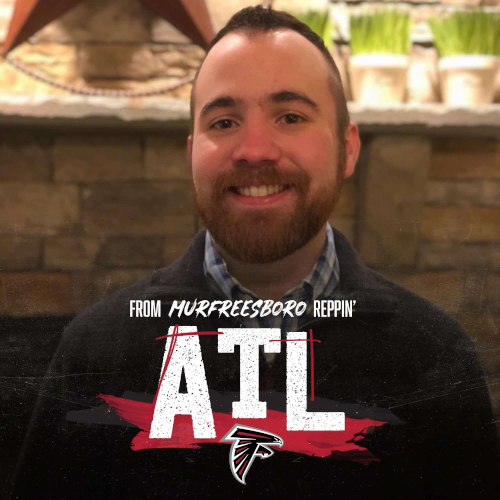
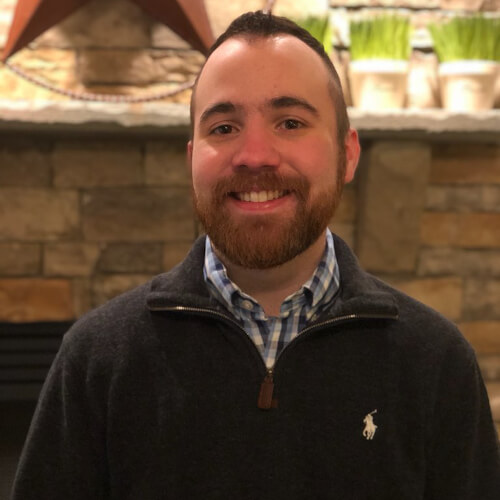
updating profile pic, background pic

diff --git a/index.html b/index.html
@@ -72,7 +72,6 @@
                                 <li><a href="#about" class="pt-link"><span class="nav-menu-icon"><i class="lnr lnr-user"></i></span>About Me</a></li>
                                 <li><a href="#resume" class="pt-link"><span class="nav-menu-icon"><i class="lnr lnr-license"></i></span>Resume</a></li>
                                 <li><a href="#portfolio" class="pt-link"><span class="nav-menu-icon"><i class="lnr lnr-briefcase"></i></span>Portfolio</a></li>
-                                <li><a href="#blog" class="pt-link"><span class="nav-menu-icon"><i class="lnr lnr-book"></i></span>Blog</a></li>
                                 <li><a href="#contact" class="pt-link"><span class="nav-menu-icon"><i class="lnr lnr-envelope"></i></span>Contact</a></li>
                             </ul>
                         </nav>
@@ -81,11 +80,8 @@
                         <div class="nav-footer">
                             <!--Social Links-->
                             <ul class="social">
-                                <li><a href="#"><i class="fab fa-facebook-square"></i></a></li>
-                                <li><a href="#"><i class="fab fa-twitter-square"></i></a></li>
-                                <li><a href="#"><i class="fab fa-youtube-square"></i></a></li>
-                                <li><a href="#"><i class="fab fa-dribbble-square"></i></a></li>
-                                <li><a href="#"><i class="fab fa-behance-square"></i></a></li>
+                                <li><a href="https://github.com/austindickey/"><i class="fab fa-github-square"></i></a></li>
+                                <li><a href="https://www.linkedin.com/in/austindickey/"><i class="fab fa-linkedin"></i></a></li>
                             </ul>
                         </div>
 
@@ -109,10 +105,10 @@
                         <p class="cd-headline clip is-full-width">
                         <span>I am a </span>
                         <span class="cd-words-wrapper">
-                            <b class="is-visible">Graphics Designer</b>
+                            <b class="is-visible">Full Stack Developer</b>
                             <b>Freelancer</b>
-                            <b>Web Developer</b>
-                            <b>UI/UX Designer</b>
+                            <b>Web Designer</b>
+                            <b>Problem Solver</b>
                         </span>
                         </p>
 
@@ -743,142 +739,6 @@
                     </div>
                 </section>
                 <!--Porfolio Section End-->
-
-
-                <!--Blog Section Start-->
-                <section id="blog" class="blog-section pt-page">
-                    <div class="section-container">
-
-                        <!--Page Heading-->
-                        <div class="page-heading">
-                            <span class="icon"><i class="lnr lnr-book"></i></span>
-                            <h2>My Blogs.</h2>
-                        </div>
-
-                        <div class="row blogs-masonry">
-
-                            <div class="col-lg-4 col-sm-6">
-                                <a href="blog-dark.html" class="blog-item">
-                                    <div class="blog-image">
-                                        <img src="img/blog/img-1.jpg" alt="#">
-                                    </div>
-                                    <div class="blog-content">
-                                        <span class="cat">Web Design</span>
-                                        <h4 class="blog-title">Best Way to Design</h4>
-                                        <div class="blog-date">August 15, 2018</div>
-                                    </div>
-                                </a>
-                            </div>
-
-                            <div class="col-lg-4 col-sm-6">
-                                <a href="blog-dark.html" class="blog-item">
-                                    <div class="blog-image">
-                                        <img src="img/blog/img-2.jpg" alt="#">
-                                    </div>
-                                    <div class="blog-content">
-                                        <span class="cat">Personal</span>
-                                        <h4 class="blog-title">Things I Need to Get Started</h4>
-                                        <div class="blog-date">August 10, 2018</div>
-                                    </div>
-                                </a>
-                            </div>
-
-                            <div class="col-lg-4 col-sm-6">
-                                <a href="blog-dark.html" class="blog-item">
-                                    <div class="blog-image">
-                                        <img src="img/blog/img-3.jpg" alt="#">
-                                    </div>
-                                    <div class="blog-content">
-                                        <span class="cat">Design</span>
-                                        <h4 class="blog-title">My Current Workspace</h4>
-                                        <div class="blog-date">August 4, 2018</div>
-                                    </div>
-                                </a>
-                            </div>
-
-                            <div class="col-lg-4 col-sm-6">
-                                <a href="blog-dark.html" class="blog-item">
-                                    <div class="blog-image">
-                                        <img src="img/blog/img-4.jpg" alt="#">
-                                    </div>
-                                    <div class="blog-content">
-                                        <span class="cat">Traveling</span>
-                                        <h4 class="blog-title">Best Place to Travel this Summer</h4>
-                                        <div class="blog-date">July 28, 2018</div>
-                                    </div>
-                                </a>
-                            </div>
-
-                            <div class="col-lg-4 col-sm-6">
-                                <a href="blog-dark.html" class="blog-item">
-                                    <div class="blog-image">
-                                        <img src="img/blog/img-5.jpg" alt="#">
-                                    </div>
-                                    <div class="blog-content">
-                                        <span class="cat">Web Design</span>
-                                        <h4 class="blog-title">Latest UI Trends to Inspired From</h4>
-                                        <div class="blog-date">July 25, 2018</div>
-                                    </div>
-                                </a>
-                            </div>
-
-                            <div class="col-lg-4 col-sm-6">
-                                <a href="blog-dark.html" class="blog-item">
-                                    <div class="blog-image">
-                                        <img src="img/blog/img-6.jpg" alt="#">
-                                    </div>
-                                    <div class="blog-content">
-                                        <span class="cat">Technology</span>
-                                        <h4 class="blog-title">Latest Tech 2018</h4>
-                                        <div class="blog-date">July 19, 2018</div>
-                                    </div>
-                                </a>
-                            </div>
-
-                            <div class="col-lg-4 col-sm-6">
-                                <a href="blog-dark.html" class="blog-item">
-                                    <div class="blog-image">
-                                        <img src="img/blog/img-7.jpg" alt="#">
-                                    </div>
-                                    <div class="blog-content">
-                                        <span class="cat">LifeStyle</span>
-                                        <h4 class="blog-title">Best & Easy To cook</h4>
-                                        <div class="blog-date">July 10, 2018</div>
-                                    </div>
-                                </a>
-                            </div>
-
-                            <div class="col-lg-4 col-sm-6">
-                                <a href="blog-dark.html" class="blog-item">
-                                    <div class="blog-image">
-                                        <img src="img/blog/img-8.jpg" alt="#">
-                                    </div>
-                                    <div class="blog-content">
-                                        <span class="cat">Technology</span>
-                                        <h4 class="blog-title">Best Sound Editing Software</h4>
-                                        <div class="blog-date">July 1, 2018</div>
-                                    </div>
-                                </a>
-                            </div>
-
-                            <div class="col-lg-4 col-sm-6">
-                                <a href="blog-dark.html" class="blog-item">
-                                    <div class="blog-image">
-                                        <img src="img/blog/img-9.jpg" alt="#">
-                                    </div>
-                                    <div class="blog-content">
-                                        <span class="cat">Traveling</span>
-                                        <h4 class="blog-title">Top Beaches in the world</h4>
-                                        <div class="blog-date">June 24, 2018</div>
-                                    </div>
-                                </a>
-                            </div>
-
-
-                        </div>
-                    </div>
-                </section>
-                <!--Blog Section End-->
 
 
                 <!--Contact Section Start-->
